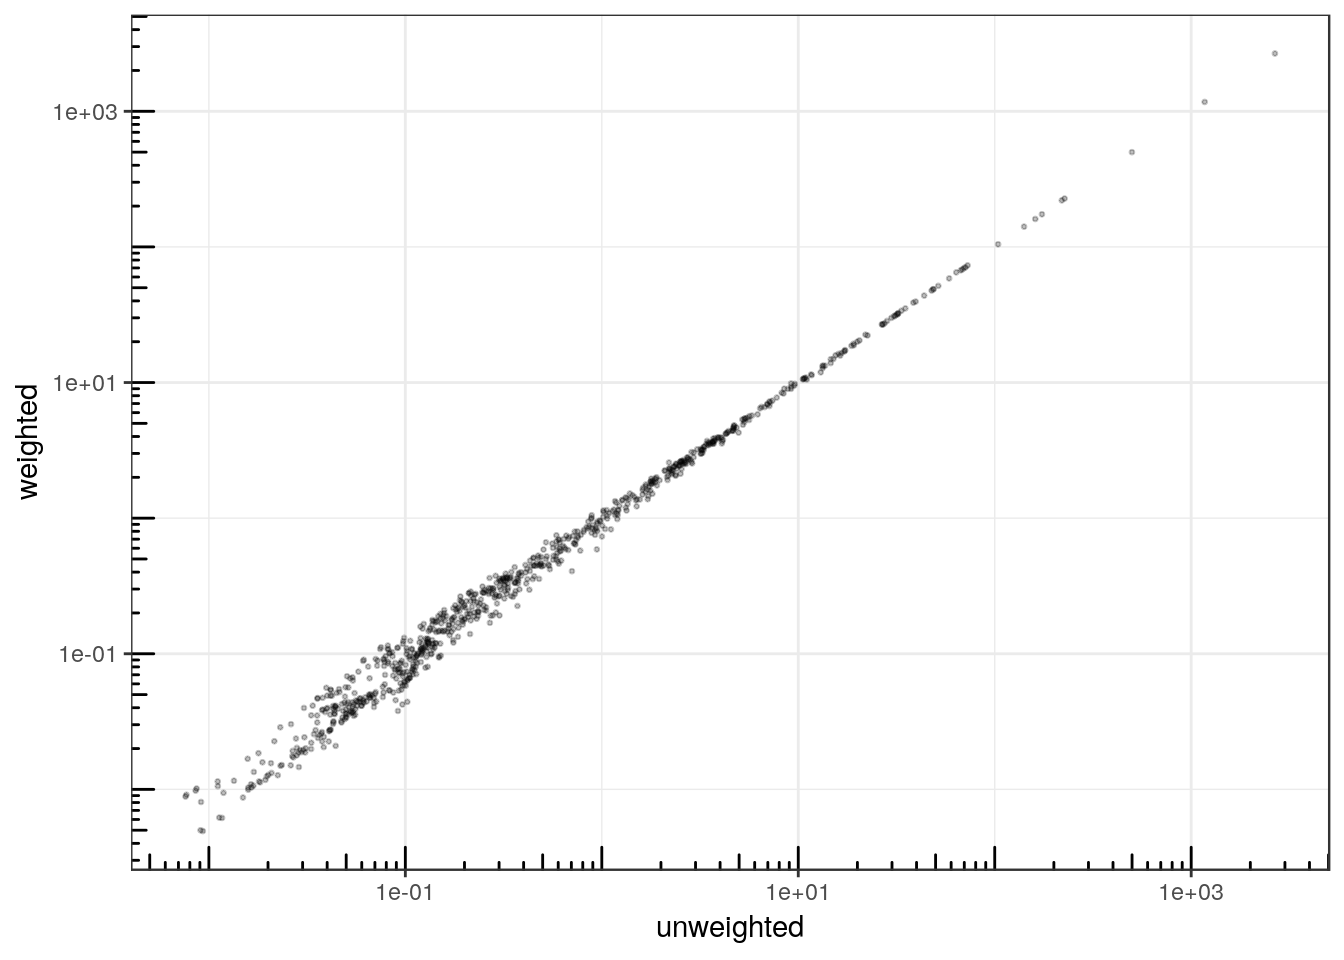
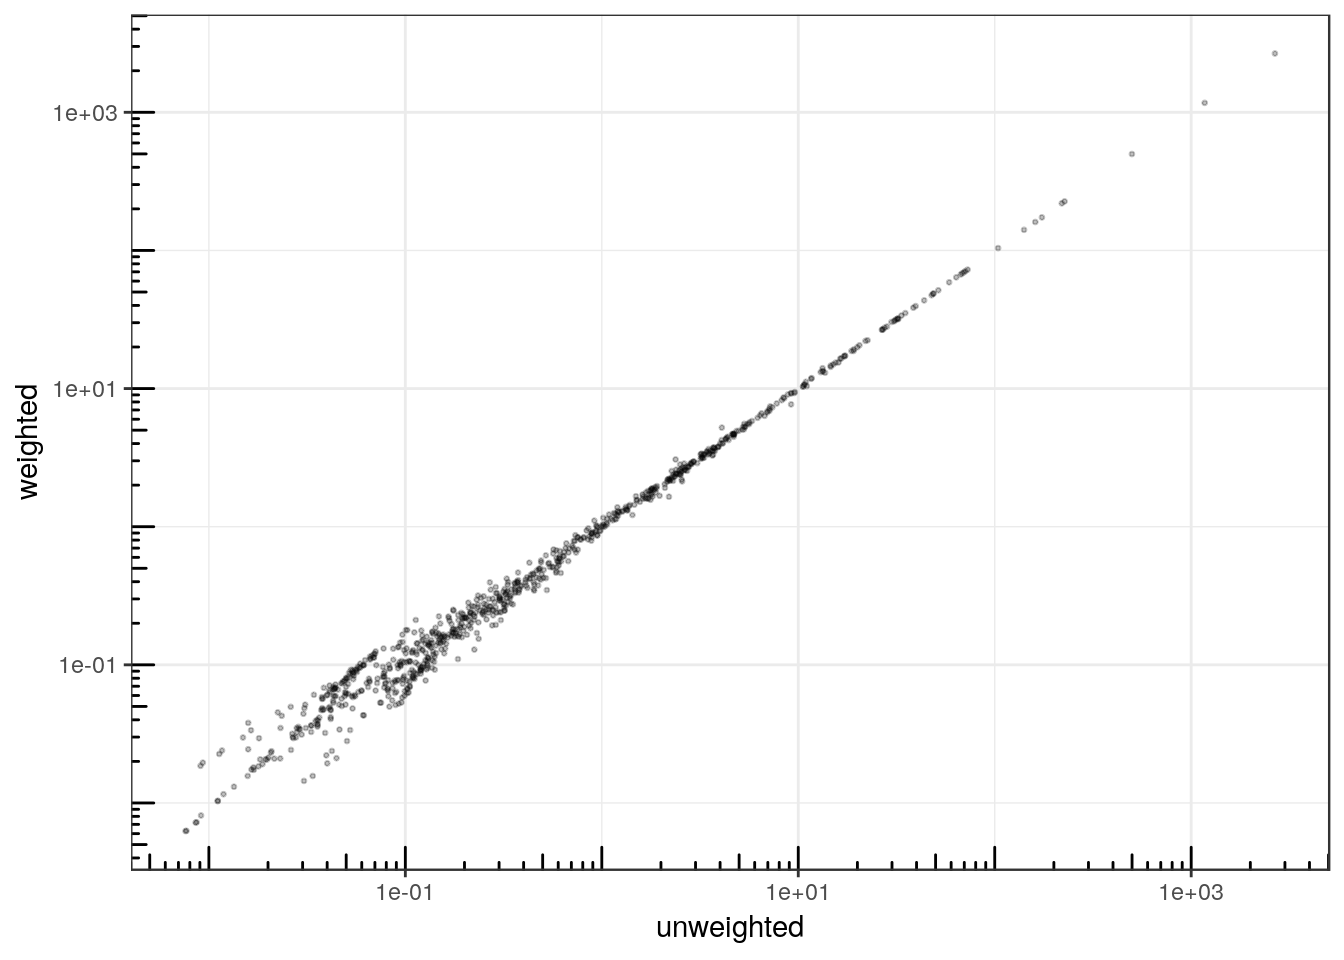
typos more materials in PLNPCA vignette

diff --git a/docs/articles/PLNPCA.html b/docs/articles/PLNPCA.html
@@ -508,6 +508,21 @@
 <a class="sourceLine" id="cb23-4" data-line-number="4">  <span class="dt">ncol =</span> <span class="dv">2</span></a>
 <a class="sourceLine" id="cb23-5" data-line-number="5">)</a></code></pre></div>
 <p><img src="PLNPCA_files/figure-html/maps-1.png" width="672"></p>
+<p>We can check that the fitted value of the counts – even with this low-rank covariance matrix – are close the the observed ones:</p>
+<div class="sourceCode" id="cb24"><pre class="sourceCode r"><code class="sourceCode r"><a class="sourceLine" id="cb24-1" data-line-number="1"><span class="kw"><a href="https://www.rdocumentation.org/packages/base/topics/data.frame">data.frame</a></span>(</a>
+<a class="sourceLine" id="cb24-2" data-line-number="2">  <span class="dt">fitted   =</span> <span class="kw"><a href="https://www.rdocumentation.org/packages/base/topics/vector">as.vector</a></span>(<span class="kw"><a href="https://www.rdocumentation.org/packages/stats/topics/fitted.values">fitted</a></span>(myPCA_cov)),</a>
+<a class="sourceLine" id="cb24-3" data-line-number="3">  <span class="dt">observed =</span> <span class="kw"><a href="https://www.rdocumentation.org/packages/base/topics/vector">as.vector</a></span>(trichoptera<span class="op">$</span>Abundance)</a>
+<a class="sourceLine" id="cb24-4" data-line-number="4">) <span class="op">%&gt;%</span><span class="st"> </span></a>
+<a class="sourceLine" id="cb24-5" data-line-number="5"><span class="st">  </span><span class="kw">ggplot</span>(<span class="kw">aes</span>(<span class="dt">x =</span> observed, <span class="dt">y =</span> fitted)) <span class="op">+</span><span class="st"> </span></a>
+<a class="sourceLine" id="cb24-6" data-line-number="6"><span class="st">    </span><span class="kw">geom_point</span>(<span class="dt">size =</span> <span class="fl">.5</span>, <span class="dt">alpha =</span>.<span class="dv">25</span> ) <span class="op">+</span><span class="st"> </span></a>
+<a class="sourceLine" id="cb24-7" data-line-number="7"><span class="st">    </span><span class="kw">scale_x_log10</span>(<span class="dt">limits =</span> <span class="kw"><a href="https://www.rdocumentation.org/packages/base/topics/c">c</a></span>(<span class="dv">1</span>,<span class="dv">1000</span>)) <span class="op">+</span><span class="st"> </span></a>
+<a class="sourceLine" id="cb24-8" data-line-number="8"><span class="st">    </span><span class="kw">scale_y_log10</span>(<span class="dt">limits =</span> <span class="kw"><a href="https://www.rdocumentation.org/packages/base/topics/c">c</a></span>(<span class="dv">1</span>,<span class="dv">1000</span>)) <span class="op">+</span><span class="st"> </span></a>
+<a class="sourceLine" id="cb24-9" data-line-number="9"><span class="st">    </span><span class="kw">theme_bw</span>() <span class="op">+</span><span class="st"> </span><span class="kw">annotation_logticks</span>()</a></code></pre></div>
+<div class="figure">
+<img src="PLNPCA_files/figure-html/fitted-1.png" alt="fitted value vs. observation" width="672"><p class="caption">
+fitted value vs. observation
+</p>
+</div>
 </div>
 </div>
 <div id="references" class="section level2 unnumbered">
